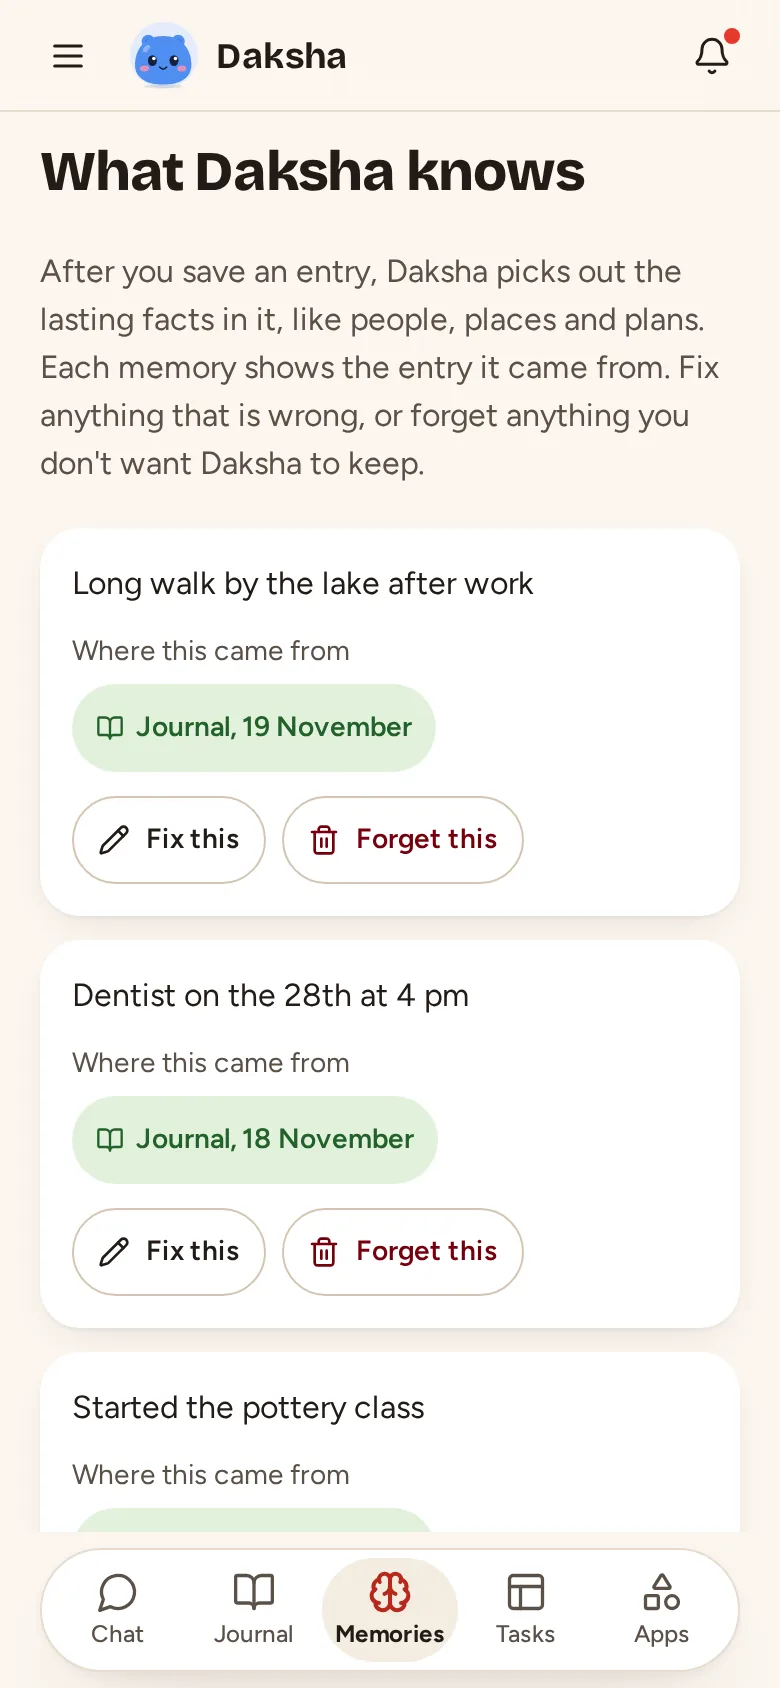
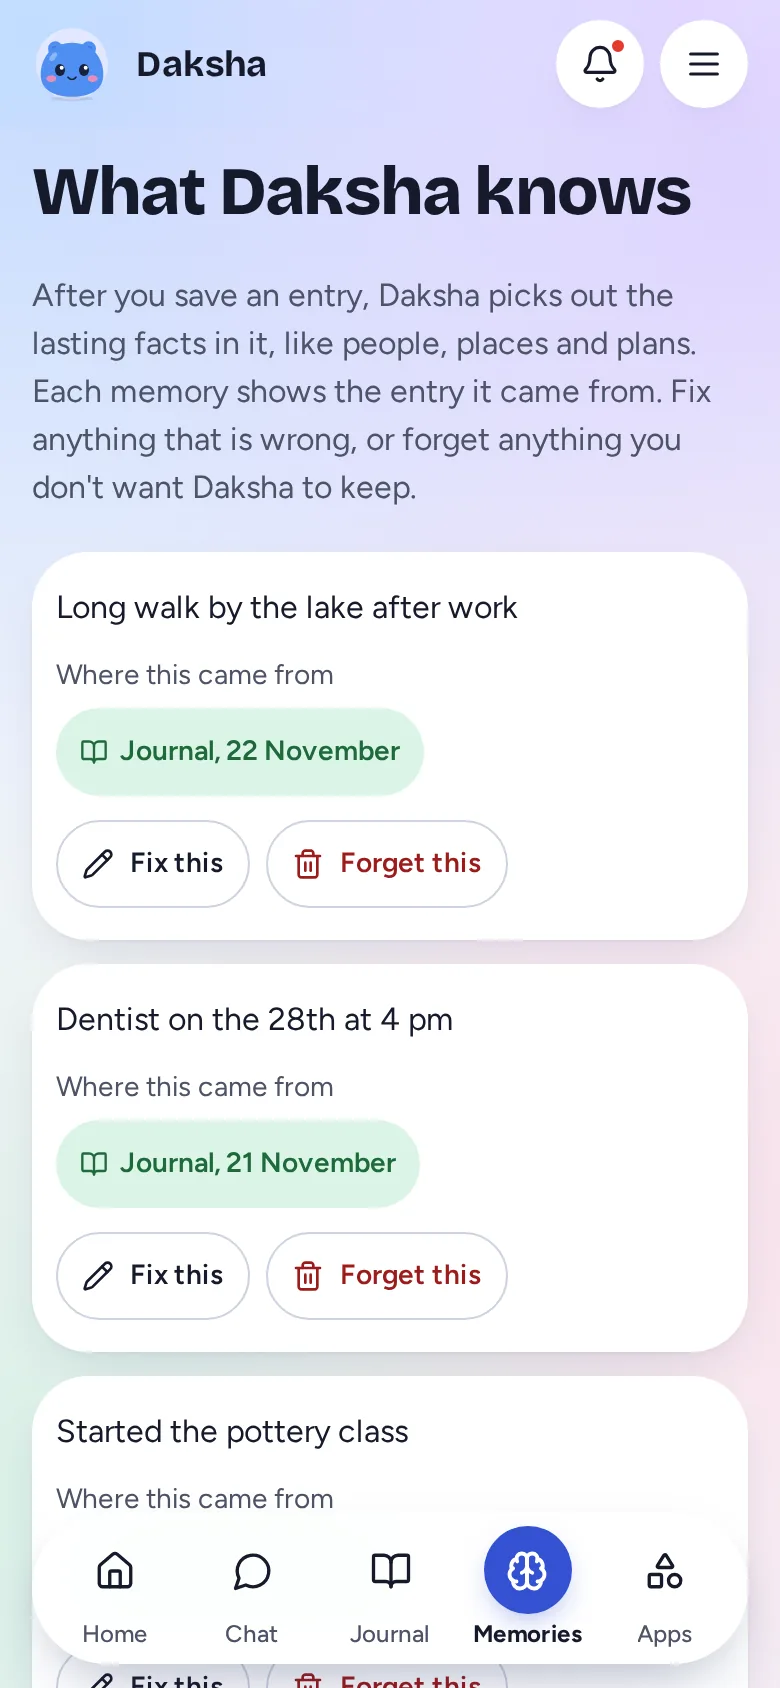
Draw the share picture in the pastel colours with the new screenshot, copy the new install pictures, and ask for the new files

diff --git a/scripts/og/og.html b/scripts/og/og.html
@@ -2,17 +2,17 @@
 <html lang="en">
 <head>
 <meta charset="utf-8" />
-<!-- Source of the share image (1200x630). Rendered to PNG by build-og.mjs. Colours are the Astryx Neutral
-     light tokens used by the app (os/apps/mobile/src/astryx-tokens.ts). The script swaps the upper-case words in the font urls and the two img tags
+<!-- Source of the share image (1200x630). Rendered to PNG by build-og.mjs. Colours are the app's pastel
+     ("Genie") tokens (os/apps/mobile/src/brand-tokens.ts): mist page, deep ink, slate and soft glows. The script swaps the upper-case words in the font urls and the two img tags
      for file addresses before rendering. -->
 <style>
   :root {
-    --body: #F1F1F1;      /* backgroundBody */
-    --ink: #1B1B1B;       /* accent, the near-black */
-    --text: #000000;      /* textPrimary */
-    --muted: #474747;     /* textSecondary */
-    --blue-soft: #B9D7FF; /* infoMuted */
-    --blue-ink: #003978;  /* onInfoMuted */
+    --body: #F3F5FA;      /* paper, the mist page */
+    --ink: #161A2B;       /* ink */
+    --text: #161A2B;      /* ink */
+    --muted: #4D5366;     /* ink2, slate */
+    --blue-soft: #E2E8FF; /* blueSoft */
+    --blue-ink: #3451D1;  /* blue */
   }
   @font-face { font-family: Figtree; font-weight: 500; src: url("FONT_DIR/figtree-latin-500-normal.woff2"); }
   @font-face { font-family: Figtree; font-weight: 600; src: url("FONT_DIR/figtree-latin-600-normal.woff2"); }
@@ -22,9 +22,12 @@
   body {
     font-family: Figtree, system-ui, sans-serif;
     color: var(--text);
-    /* backgroundRed (#FFC4BE) as a soft glow behind the phone */
+    /* The app's backdrop glows: sky top left, lilac behind the phone, blush and mint low down */
     background:
-      radial-gradient(620px 520px at 945px 280px, rgba(255, 196, 190, 0.75), rgba(255, 196, 190, 0) 70%),
+      radial-gradient(620px 520px at 945px 260px, rgba(220, 208, 255, 0.85), rgba(220, 208, 255, 0) 70%),
+      radial-gradient(560px 420px at 60px 40px, rgba(196, 217, 255, 0.9), rgba(196, 217, 255, 0) 70%),
+      radial-gradient(520px 380px at 1150px 640px, rgba(255, 211, 225, 0.7), rgba(255, 211, 225, 0) 70%),
+      radial-gradient(520px 380px at 40px 640px, rgba(200, 238, 218, 0.6), rgba(200, 238, 218, 0) 70%),
       var(--body);
     position: relative;
   }
@@ -37,7 +40,7 @@
   .chip { margin-top: 34px; align-self: flex-start; font-size: 25px; font-weight: 600; color: var(--blue-ink);
           background: var(--blue-soft); padding: 8px 20px; border-radius: 999px; }
   .phone { position: absolute; left: 800px; top: 56px; width: 308px; height: 640px; background: var(--ink);
-           border-radius: 50px; padding: 11px; box-shadow: 0 30px 60px rgba(27, 27, 27, 0.22), 0 6px 14px rgba(27, 27, 27, 0.12); }
+           border-radius: 50px; padding: 11px; box-shadow: 0 30px 60px rgba(22, 26, 43, 0.22), 0 6px 14px rgba(22, 26, 43, 0.12); }
   .phone .screen { width: 100%; height: 100%; border-radius: 40px; overflow: hidden; background: var(--body); }
   .phone img { width: 100%; display: block; }
 </style>

diff --git a/os/apps/mobile/public/index.html b/os/apps/mobile/public/index.html
@@ -35,14 +35,14 @@
     <meta property="og:url" content="https://my.daksha.life" />
     <meta property="og:title" content="Daksha: a friendly assistant that remembers your life" />
     <meta property="og:description" content="Ask about your own life. Every answer shows where it came from." />
-    <meta property="og:image" content="https://my.daksha.life/og.png?v=4" />
+    <meta property="og:image" content="https://my.daksha.life/og.png?v=5" />
     <meta property="og:image:width" content="1200" />
     <meta property="og:image:height" content="630" />
     <meta property="og:image:alt" content="Daksha, a small red tomato, next to a phone showing the app, and the words: a friendly assistant that remembers your life" />
     <meta name="twitter:card" content="summary_large_image" />
     <meta name="twitter:title" content="Daksha: a friendly assistant that remembers your life" />
     <meta name="twitter:description" content="Ask about your own life. Every answer shows where it came from." />
-    <meta name="twitter:image" content="https://my.daksha.life/og.png?v=4" />
+    <meta name="twitter:image" content="https://my.daksha.life/og.png?v=5" />
     <meta name="twitter:image:alt" content="Daksha, a small red tomato, next to a phone showing the app, and the words: a friendly assistant that remembers your life" />
 
     <!-- Daksha does not nag people to install it. Chrome would show its own small install bar; this keeps it away.

diff --git a/apps/site/src/app/layout.tsx b/apps/site/src/app/layout.tsx
@@ -16,7 +16,7 @@ const TITLE = `${BRAND}: a friendly assistant that remembers your life`;
 const DESCRIPTION = `Write things down or say them out loud. Ask ${BRAND} about your own life and see the source of every answer. You can see, fix, download and delete everything.`;
 
 // Made by scripts/og/build-og.mjs. The ?v= changes when the picture changes, so chat apps fetch it again.
-const OG_IMAGE = `${SITE_URL}/og.png?v=4`;
+const OG_IMAGE = `${SITE_URL}/og.png?v=5`;
 const OG_ALT = `${BRAND}, a small red tomato, next to a phone showing the app, and the words: a friendly assistant that remembers your life`;
 
 export const metadata: Metadata = {

diff --git a/apps/pitch/src/app/layout.tsx b/apps/pitch/src/app/layout.tsx
@@ -14,7 +14,7 @@ import { Providers } from "./providers";
 const PITCH_TITLE = "Daksha: investor pitch";
 const PITCH_DESCRIPTION = "The pitch, the numbers and the sources for Daksha, a friendly assistant that remembers your life.";
 // Made by scripts/og/build-og.mjs. The ?v= changes when the picture changes, so chat apps fetch it again.
-const OG_IMAGE = "https://pitch.daksha.life/og.png?v=4";
+const OG_IMAGE = "https://pitch.daksha.life/og.png?v=5";
 const OG_ALT =
   "Daksha, a small red tomato, next to a phone showing the app, with the words: a friendly assistant that remembers your life. Investor pitch.";
 

diff --git a/apps/web/src/app/layout.tsx b/apps/web/src/app/layout.tsx
@@ -8,7 +8,7 @@ const description =
   "Give Daksha your journals, voice notes, papers and photos. Ask about your own life and get answers that show where they came from. Being built now.";
 
 // Made by scripts/og/build-og.mjs. The ?v= changes when the picture changes, so chat apps fetch it again.
-const OG_IMAGE = "https://daksha.life/og.png?v=4";
+const OG_IMAGE = "https://daksha.life/og.png?v=5";
 const OG_ALT =
   "Daksha, a small red tomato, next to a phone showing the app, and the words: a friendly assistant that remembers your life";
 

diff --git a/apps/site/src/app/page.tsx b/apps/site/src/app/page.tsx
@@ -30,7 +30,7 @@ const JSON_LD = {
       operatingSystem: "Web, Android",
       description:
         "A friendly assistant that remembers your life. Write a journal or talk out loud, then ask about your own past and plans. Every answer shows its source.",
-      image: `${SITE_URL}/og.png?v=4`,
+      image: `${SITE_URL}/og.png?v=5`,
     },
     {
       "@type": "FAQPage",
